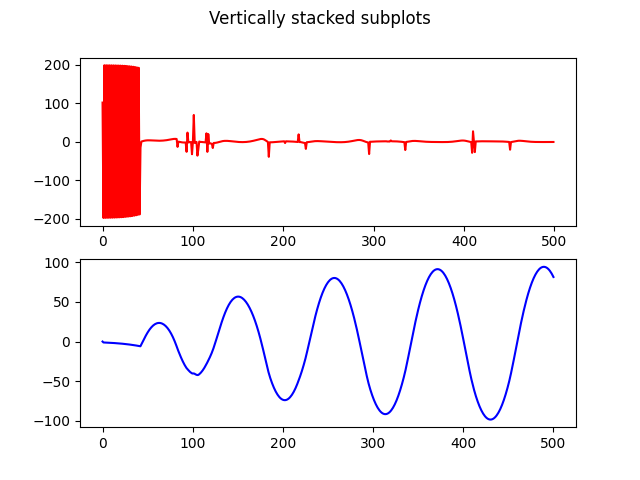
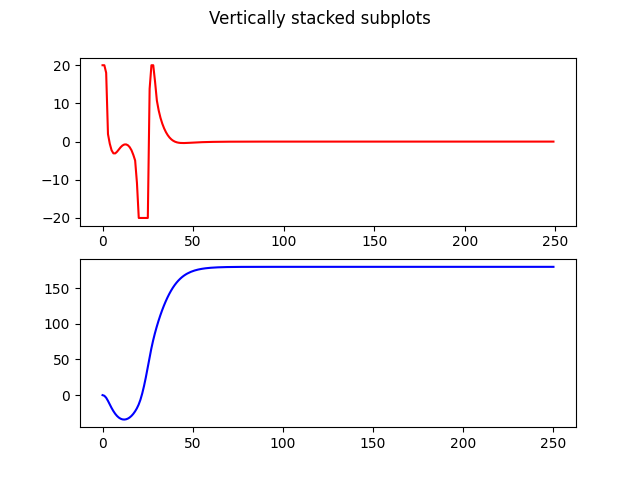
friction added

diff --git a/utils/system.py b/utils/system.py
@@ -4,14 +4,15 @@ from utils.visualization import CartPoleVisualizer
 import numpy as np
 
 class CartPole:
-    def __init__(self, config, xf):
+    def __init__(self, config):
         self.config          = config
         self.index_x         = 0
         self.index_x_dot     = 1
         self.index_theta     = 2
         self.index_theta_dot = 3
-        self.xf              = xf
-        self.init_guess      = 1
+        self.init_guess      = 1    # Initial guess for nlp solver
+        self.u_max           = 20   # Maximum force allowed. Force boundary
+        self.mu_c            = 0.2  # Coefficient of the friction between cart and the track
 
         ## Problem size
         self.n_states = 4
@@ -38,7 +39,7 @@ class CartPole:
         sin_theta = casadi.sin(theta)
         cos_theta = casadi.cos(theta)
 
-        action = u[:, 0]
+        action = u[:, 0] - self.mu_c*x_dot
 
         x_acc = (1/(self.config.m_cart+self.config.m_pole*sin_theta**2))*(action+self.config.m_pole*sin_theta*(self.config.l*theta_dot**2+self.config.g*cos_theta))
         theta_acc = (1/(self.config.l*(self.config.m_cart+self.config.m_pole*sin_theta**2)))*(-action*cos_theta-self.config.m_pole*self.config.l*theta_dot**2*cos_theta*sin_theta-(self.config.m_cart+self.config.m_pole)*self.config.g*sin_theta)
@@ -72,8 +73,8 @@ class CartPole:
         ## Box constraints
         lower_bounds = self.unpack_variables_fn(flat=-float('inf'))
         upper_bounds = self.unpack_variables_fn(flat=float('inf'))
-        #lower_bounds['inputs'][:,0] = -40.0 # Minimum force
-        #upper_bounds['inputs'][:,0] = 40.0 # Maximum force
+        lower_bounds['inputs'][:,0] = -self.u_max # Minimum force
+        upper_bounds['inputs'][:,0] = self.u_max # Maximum force
         ## Initial state
         lower_bounds['states'][0, self.index_x]           = x0[0,self.index_x]
         upper_bounds['states'][0, self.index_x]           = x0[0,self.index_x]
@@ -84,14 +85,6 @@ class CartPole:
         lower_bounds['states'][0, self.index_theta_dot]   = x0[0,self.index_theta_dot]
         upper_bounds['states'][0, self.index_theta_dot]   = x0[0,self.index_theta_dot]
         ## Final state
-        #lower_bounds['states'][-1,self.index_x]           = self.xf[self.index_x]
-        #upper_bounds['states'][-1,self.index_x]           = self.xf[self.index_x]
-        #lower_bounds['states'][-1,self.index_x_dot]       = self.xf[self.index_x_dot]
-        #upper_bounds['states'][-1,self.index_x_dot]       = self.xf[self.index_x_dot]
-        #lower_bounds['states'][-1,self.index_theta]       = self.xf[self.index_theta]
-        #upper_bounds['states'][-1,self.index_theta]       = self.xf[self.index_theta]
-        #lower_bounds['states'][-1,self.index_theta_dot]   = self.xf[self.index_theta_dot]
-        #upper_bounds['states'][-1,self.index_theta_dot]   = self.xf[self.index_theta_dot]
         
         #self.states[0,:]=SX(x0)
         X0 = self.states[0:self.config.mpc_horizon-1,:]
@@ -100,8 +93,6 @@ class CartPole:
         defect = self.step(X0,self.inputs) - X1
         defect = casadi.reshape(defect, -1, 1)
         ## Optimization objective
-        #objective = casadi.sum1(casadi.sum2(self.inputs**2))
-        #objective = casadi.sum1(casadi.sqrt(casadi.sum2((self.states-np.tile(self.xf,(self.config.mpc_horizon,1)))**2)))
         potential_eng, kinetic_eng = self.cal_energy()
         
         objective = casadi.sum1(kinetic_eng-potential_eng)

diff --git a/main.py b/main.py
@@ -8,12 +8,11 @@ from tqdm import tqdm
 
 # Initialize state and storage
 x0          = np.array([[0, 0, 0, 0]])  # [x, x_dot, theta, theta_dot]
-xf          = np.array([[0, 0, np.pi, 0]]) 
 
 states  = [x0]
 actions = []
 config = Config()
-system = CartPole(config, xf)
+system = CartPole(config)
 
 # Simulate the dynamics
 for t in tqdm(np.arange(0, config.T, config.dt)):
